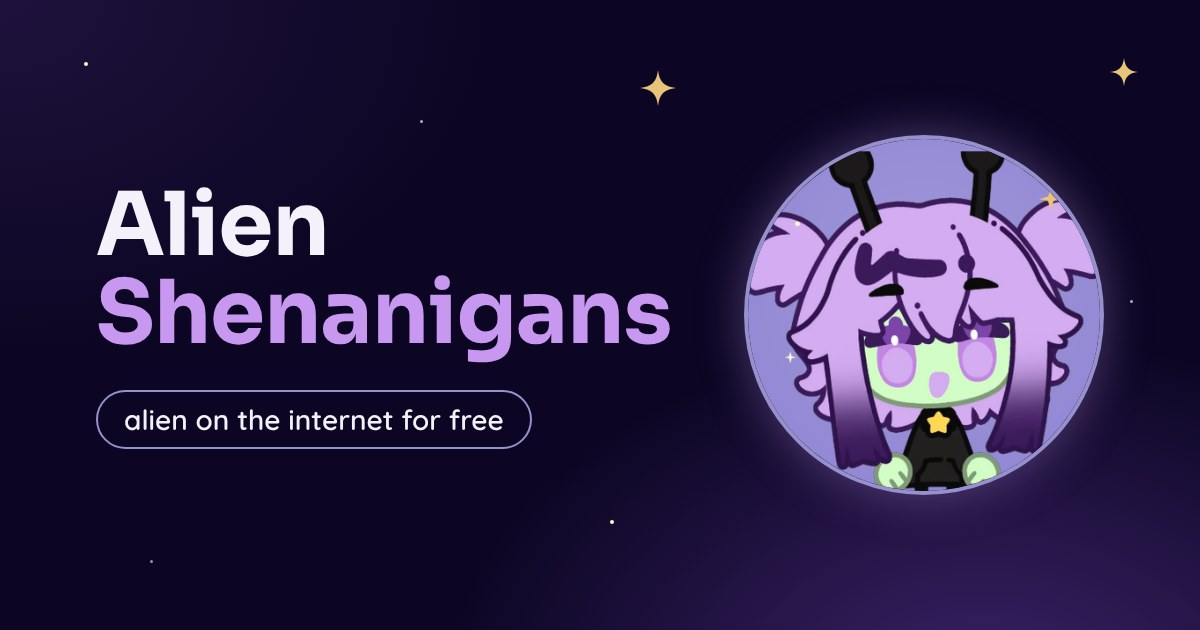
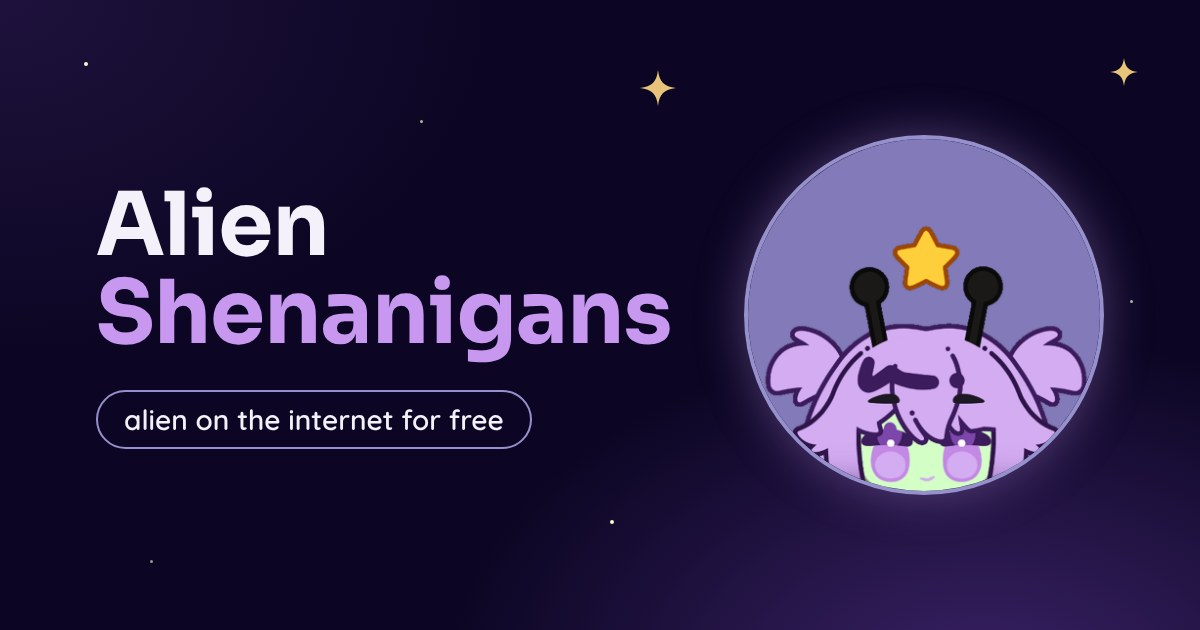
Switch to the X profile picture and add a latest-videos player
The avatar, favicon, touch icon and share image now use the star-antenna
chibi from X. The YouTube uploads playlist embed keeps the page current
without edits; the channel URL joins the structured data.

Claude-Session: https://claude.ai/code/session_01T7Au1RRwX2e3JohwGHyggR

Changed region(s): [[0.6167, 0.2111, 0.925, 0.7841]]

diff --git a/index.html b/index.html
@@ -25,7 +25,7 @@
 {"@context":"https://schema.org","@graph":[
 {"@type":"WebSite","@id":"https://alienshenanigans.github.io/#website","name":"Alien Shenanigans","url":"https://alienshenanigans.github.io/","publisher":{"@id":"https://alienshenanigans.github.io/#ali"}},
 {"@type":"Person","@id":"https://alienshenanigans.github.io/#ali","name":"Alien Shenanigans","alternateName":["Ali","AlienShenanigans"],"description":"Gaming VTuber: fails, horror games and old games played badly.","url":"https://alienshenanigans.github.io/","image":"https://alienshenanigans.github.io/avatar.jpg","email":"mailto:alienshenanigans13@gmail.com",
-"sameAs":["https://www.youtube.com/@AlienShenanigans","https://www.twitch.tv/alienshenanigans","https://www.tiktok.com/@alienshenanigans","https://x.com/AliShenanigans","https://discord.gg/VghJEGgXea"]}
+"sameAs":["https://www.youtube.com/@AlienShenanigans","https://www.youtube.com/channel/UCMmjDFOAr2v_bBuBjW8SvOA","https://www.twitch.tv/alienshenanigans","https://www.tiktok.com/@alienshenanigans","https://x.com/AliShenanigans","https://discord.gg/VghJEGgXea"]}
 ]}
 </script>
 
@@ -108,6 +108,11 @@ footer a{color:var(--lavender)}
 <p class="times"><b id="t-et">11:30 AM</b> ET · <b id="t-uk">4:30 PM</b> UK</p>
 <p class="local" id="t-local" hidden></p>
 <p class="next" id="next" hidden></p>
+</section>
+
+<section class="card" aria-labelledby="vids-h">
+<h2 id="vids-h">Latest <span>videos</span></h2>
+<div class="video"><iframe src="https://www.youtube-nocookie.com/embed/videoseries?list=UUMmjDFOAr2v_bBuBjW8SvOA" title="Latest Alien Shenanigans videos on YouTube" loading="lazy" allow="encrypted-media; picture-in-picture; fullscreen" referrerpolicy="strict-origin-when-cross-origin"></iframe></div>
 </section>
 
 <footer>
